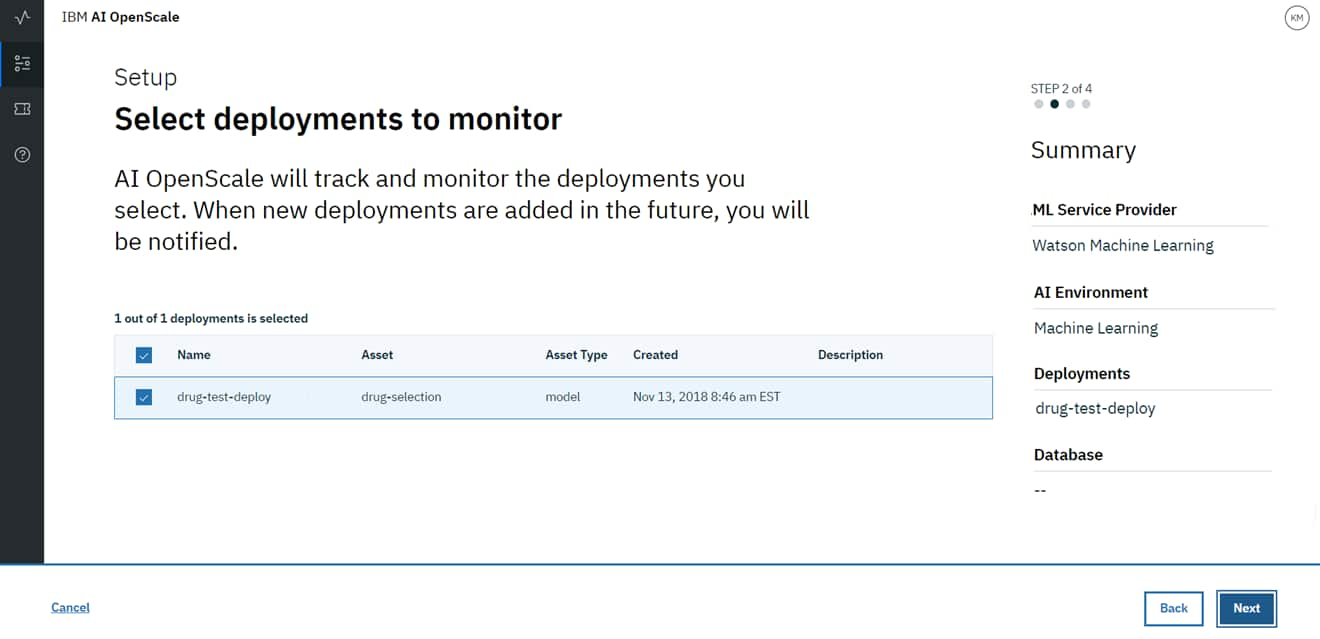
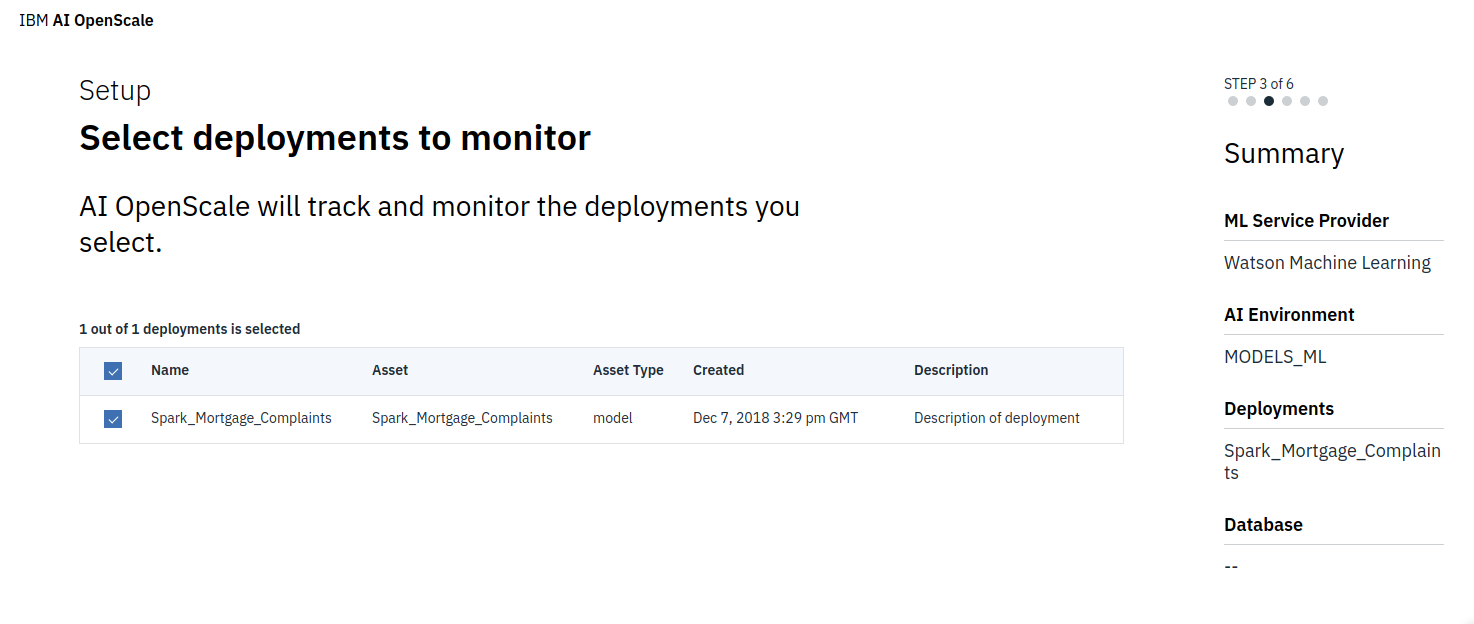
Update to ReadMe and screen shots

diff --git a/README.md b/README.md
@@ -112,7 +112,8 @@ $ cd MortgageBento
 * Enter a name for the notebook.
 * Optionally, enter a description for the notebook.
 * Under `Notebook file` Browse to your notebook file
-* Under `Select runtime` Select the Spark services created earlier.
+* Under `Select runtime` Select the **Spark services**created earlier.
+![](https://github.com/mohanie/MortgageBento/blob/master/images/SparkServices.png?raw=true)
 * Click the `Create` button.
 
 
@@ -127,49 +128,57 @@ $ cd MortgageBento
 
 ### 7. Configure AI OpenScale
 
+**Note** : Before configuring AIOS ensure you can created a Model to monitor using the Notebook imported above.
+
 * Create an AI OpenScale Service
 ![](https://github.com/mohanie/MortgageBento/blob/master/images/AIOS_Tile.png?raw=true)
 
 * Launch the AI OpenScale Service
 ![](https://github.com/mohanie/MortgageBento/blob/master/images/LaunchAIOS.png?raw=true)
 
-* Select a `Compose for PostgreSQL` instance.
-![](https://github.com/mohanie/MortgageBento/blob/master/images/gs-set-lite-db.png?raw=true)
+* Select a `Begin` to get started.
 
-* Select a `Watson Machine Learning` service.
-![](https://github.com/mohanie/MortgageBento/blob/master/images/gs-set-wml.png?raw=true)
+* Select a your Watson Machine Learning instance.
+![](https://github.com/mohanie/MortgageBento/blob/master/images/WMLServices.png?raw=true)
 
-### 8. Connect AI OpenScale to your machine learning model
-
-* Launch the AI OpenScale Service
-![](https://github.com/mohanie/MortgageBento/blob/master/images/LaunchAIOS.png?raw=true)
-
-* Select the `Configure` icon to add a new machine learning model.
-* Select `Edit`
-* Select `Next`
-* Select a `Watson Machine Learning` service.
-* Select `Next`
 * Select you machine learning model from the list displayed.
 ![](https://github.com/mohanie/MortgageBento/blob/master/images/gs-set-deploy0.png?raw=true)
 
-* Select `Next`
-* Select `Save`
+* Select a `Use the free Lite plan database` option.
+![](https://github.com/mohanie/MortgageBento/blob/master/images/gs-set-lite-db.png?raw=true)
+
+* Review summary and select `Save`.
+
 * Select `Yes` on confirmation message.
-* Select `Continue with Configuration` on Success message.
-* Select your model to configure.
-* Select `Begin`
+
+* Select `Exit to Dashboard`
+
+### 8. Connect AI OpenScale to your machine learning model
+
+* Select a Model monitor
+![](https://github.com/mohanie/MortgageBento/blob/master/images/monitor.png?raw=true)
+
+* Select `Configure accuracy`
+![](https://github.com/mohanie/MortgageBento/blob/master/images/ConfigAccuracy.png?raw=true)
+
 * Select `Accuracy`
 ![](https://github.com/mohanie/MortgageBento/blob/master/images/Accuracy.png?raw=true)
 
-* Select `Begin`
-* Select `Next`
 * Select `Multi-class classification` for Algorithm type.
+![](https://github.com/mohanie/MortgageBento/blob/master/images/MultiClass.png?raw=true)
+
 * Select `Next`
 * Set accuracy threshold to 60%
+![](https://github.com/mohanie/MortgageBento/blob/master/images/Threshold.png?raw=true)
+
 * Select `Next`
 * Set minimum sample size to 10
+![](https://github.com/mohanie/MortgageBento/blob/master/images/Minsize.png?raw=true)
+
 * Select `Next`
 * Set maximum sample size to 10
+![](https://github.com/mohanie/MortgageBento/blob/master/images/Maxsize.png?raw=true)
+
 * Select `Next`
 * Review the summary data and cick `Save`
 ![](https://github.com/mohanie/MortgageBento/blob/master/images/gs-setup-summary4.png?raw=true)
@@ -190,8 +199,17 @@ $ cd MortgageBento
 
 * Set `Spark Service or Environment` to you Spark service
 * Set `Metric details` to accuracy with a threshold of 60
-* Set `Feedback data connection` to you PostgreSQL Feedback table. `Feedback_<Model_ID>`
-![](https://github.com/mohanie/MortgageBento/blob/master/images/ModelID.png?raw=true)
+* Set `Feedback data connection` to your IBM Db2 Warehouse on Cloud
+![](https://github.com/mohanie/MortgageBento/blob/master/images/NewConnection.png?raw=true)
+
+* Click `Create`
+![](https://github.com/mohanie/MortgageBento/blob/master/images/Create.png?raw=true)
+
+* Set `Select feedback data reference` to IBM Db2 Warehouse Schema
+![](https://github.com/mohanie/MortgageBento/blob/master/images/Schema.png?raw=true)
+
+* Enter a table name for your Feedback data.
+![](https://github.com/mohanie/MortgageBento/blob/master/images/FeedbackTable.png?raw=true)
 
 * Set `Record count required for re-evaluation` to 10
 * Select `Save`
